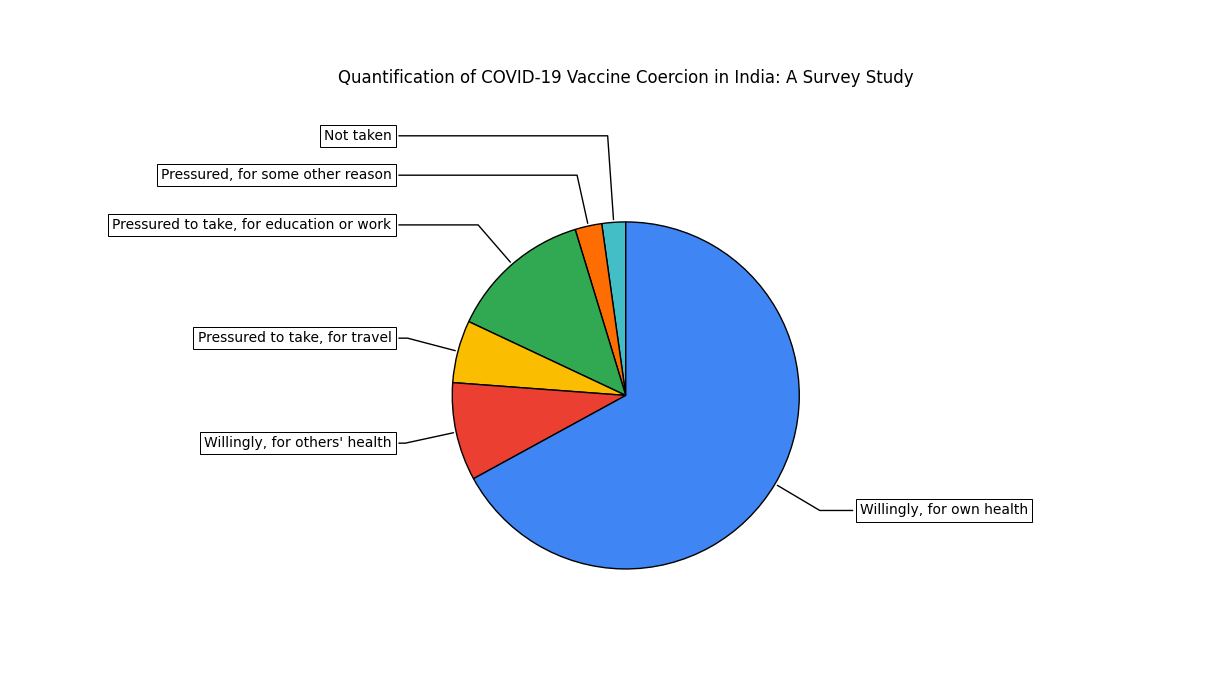
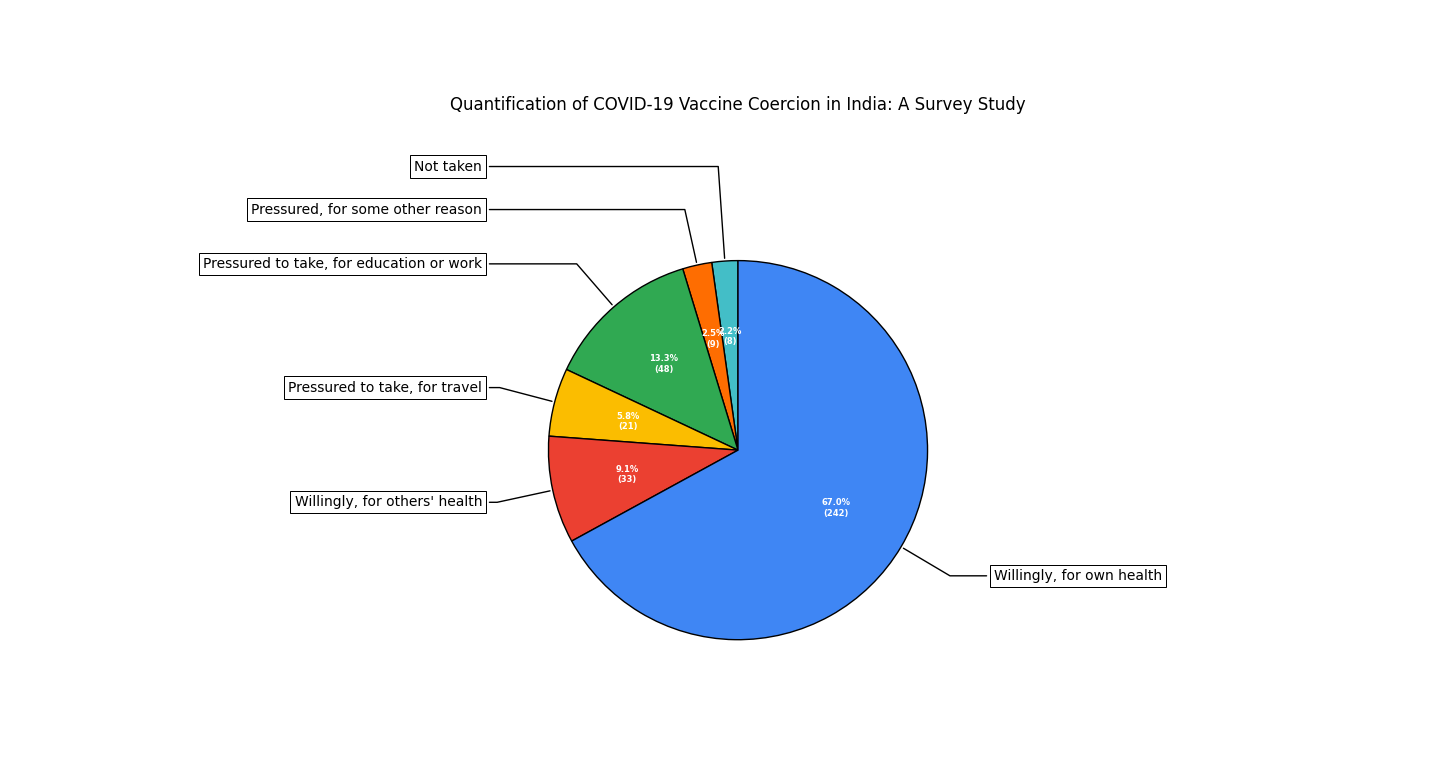
pie chart labelling fixed

diff --git a/Coersion/plot.py b/Coersion/plot.py
@@ -10,11 +10,14 @@ values=[8,9,48,21,33,242]
 labels = ['Not taken','Pressured, for some other reason', 'Pressured to take, for education or work','Pressured to take, for travel',"Willingly, for others' health", 'Willingly, for own health']
 colors=['#43BEC7','#FE6D01','#30A952','#FBBD00','#EB4031','#3F86F4']
 
-custom_labels = [f'{label} ({round((size/total)*100,1)}%)' for label, size in zip(labels, values)]
 
 # PLOTTING
+def func(pct, allvals):
+    absolute = int(np.round(pct/100.*np.sum(allvals)))
+    return f"{pct:.1f}%\n({absolute:d})"
+
 fig, ax = plt.subplots(figsize=(6, 3), subplot_kw=dict(aspect="equal"))
-wedges, texts = ax.pie(values, colors=colors, startangle=90,wedgeprops=dict(width=1, edgecolor='black'))
+wedges, texts, autotexts = ax.pie(values, colors=colors, startangle=90,autopct=lambda pct: func(pct, values),wedgeprops=dict(width=1, edgecolor='black'),textprops=dict(color="w"))
 bbox_props = dict(boxstyle="square,pad=0.3", fc="w", ec="k", lw=0.72)
 
 kw = dict(arrowprops=dict(arrowstyle="-"),
@@ -30,5 +33,7 @@ for i, p in enumerate(wedges):
     ax.annotate(labels[i], xy=(x, y), xytext=(1.35*np.sign(x), (1.3 if i>0 else 1.5)*y),
                 horizontalalignment=horizontalalignment, **kw)
     
+
+plt.setp(autotexts, size=6, weight="bold")
 plt.title("Quantification of COVID-19 Vaccine Coercion in India: A Survey Study",y=1.2)
 plt.show() 

diff --git a/Birth_Decline/plot.py b/Birth_Decline/plot.py
@@ -47,20 +47,21 @@ with open('data.csv', 'r') as file:
 
 
 # PLOTTING 
-bar_colors=['#4284f3']* (len(x_period)-3)+['red','#4C1C24','#98704D']
+bar_colors=['#4284f3']* (len(x_period)-3)+['red','#4C1C24','#98704D'] # setting different colors for last three bars
 plt.bar(x_period,y_deaths,color=bar_colors,edgecolor=edge_colors,linewidth=2,capstyle='round', joinstyle='round')
 
 # Add text annotations over the bars
 for i, value in enumerate(y_deaths):
-    plt.text(i, value +6999, str(value), ha='center',va='bottom', fontsize=8,color=bar_colors[i])
+    plt.text(i, value +6999, str(value), ha='center',va='bottom', fontsize=8,color=bar_colors[i]) # +6999 sets the offset for the labels above the bars
 
-plt.title('Germany Birth-Rate Decline')
+plt.title('Germany Birth-Rate Decline',y=1.1)
 plt.ylabel('Number of Births in Germany')
 plt.grid(axis='y')
 plt.ylim(0,250000)
-plt.gca().set_axisbelow(True)
-plt.xticks(rotation=90) 
+plt.gca().set_axisbelow(True) #setting the z-index of the grid lower than the bars
+plt.xticks(rotation=90) # rotating x labels 
 plt.box(None)
+
 
 plt.show()
     
